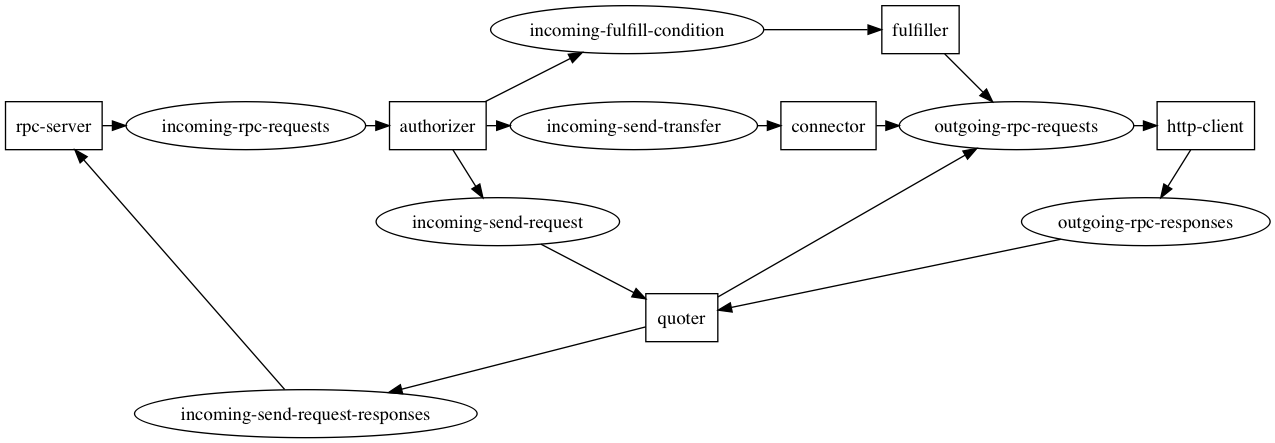
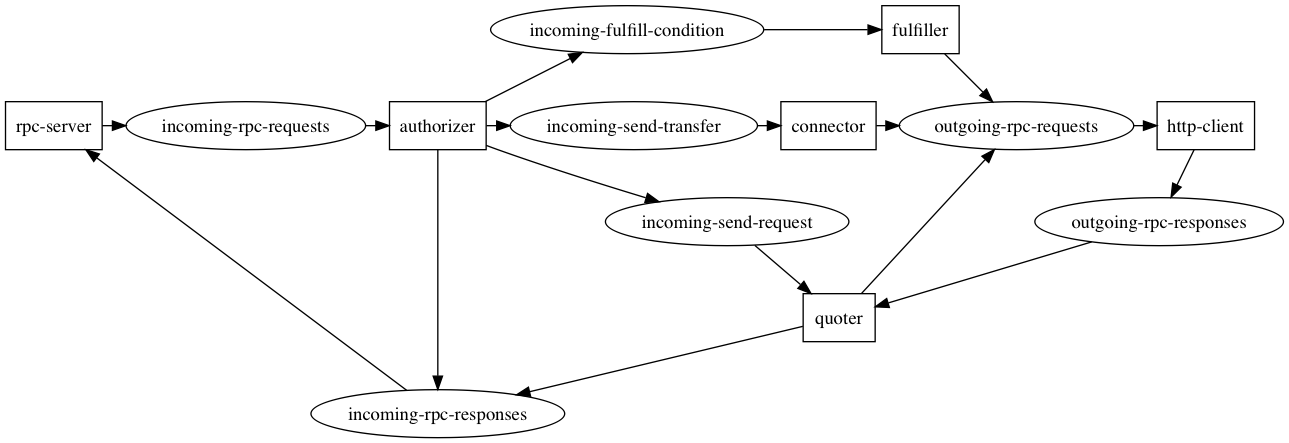
feat: add get_info method to authorizer

diff --git a/src/authorizer.js b/src/authorizer.js
@@ -1,9 +1,7 @@
 const kafka = require('kafka-node')
 const util = require('./util')
 const client = new kafka.Client('localhost:2181')
-const producer = new kafka.HighLevelProducer(client, {
-  partitionerType: 3 // keyed partitioner
-})
+const producer = new kafka.HighLevelProducer(client)
 const produce = util.promisify(producer.send.bind(producer))
 const consumer = new kafka.ConsumerGroup({
   host: 'localhost:2181',
@@ -24,29 +22,53 @@ consumer.on('message', async (message) => {
     switch (method) {
       case 'send_transfer':
         const sendTransferId = body && body[0] && body[0].id
-        await produce([{
-          topic: 'incoming-send-transfer',
-          messages: Buffer.from(JSON.stringify({ id, body, prefix, method })),
-          timestamp: Date.now(),
-          key: sendTransferId
-        }])
+        await Promise.all([
+          produce([{
+            topic: 'incoming-send-transfer',
+            messages: Buffer.from(JSON.stringify({ id, body, prefix, method })),
+            timestamp: Date.now()
+          }]),
+          produce([{
+            topic: 'incoming-rpc-responses',
+            messages: Buffer.from(JSON.stringify({ id, body: true })),
+            timestamp: Date.now()
+          }])
+        ])
         break
       case 'fulfill_condition':
         const fulfillTransferId = body && body[0]
-        await produce([{
-          topic: 'incoming-fulfill-condition',
-          messages: Buffer.from(JSON.stringify({ id, body, prefix, method })),
-          timestamp: Date.now(),
-          key: fulfillTransferId
-        }])
+        await Promise.all([
+          produce([{
+            topic: 'incoming-fulfill-condition',
+            messages: Buffer.from(JSON.stringify({ id, body, prefix, method })),
+            timestamp: Date.now()
+          }]),
+          produce([{
+            topic: 'incoming-rpc-responses',
+            messages: Buffer.from(JSON.stringify({ id, body: true })),
+            timestamp: Date.now()
+          }])
+        ])
         break
       case 'send_request':
         await produce([{
           topic: 'incoming-send-request',
           messages: Buffer.from(JSON.stringify({ id, body, prefix, method })),
-          timestamp: Date.now(),
-          key: id
+          timestamp: Date.now()
           // TODO is there an intelligent way to partiion requests?
+        }])
+        break
+      case 'get_info':
+        const info = {
+          currencyCode: 'USD',
+          currencyScale: 9,
+          prefix: prefix,
+          connectors: [ prefix + 'server' ]
+        }
+        await produce([{
+          topic: 'incoming-rpc-responses',
+          messages: Buffer.from(JSON.stringify({ id, body: info })),
+          timestamp: Date.now()
         }])
         break
 

diff --git a/src/rpc-server.js b/src/rpc-server.js
@@ -15,7 +15,7 @@ const producer = new kafka.HighLevelProducer(client)
 const consumer = new kafka.ConsumerGroup({
   host: 'localhost:2181',
   groupId: 'rpcServer'
-}, 'incoming-send-request-responses')
+}, 'incoming-rpc-responses')
 client.once('ready', () => console.log('listening for incoming-send-request-responses'))
 client.on('error', error => console.error(error))
 consumer.on('error', error => console.error(error))
@@ -24,7 +24,7 @@ producer.on('error', error => console.error(error))
 const responder = new EventEmitter()
 consumer.on('message', (message) => {
   const data = JSON.parse(message.value)
-  console.log('process incoming-send-request-responses', data.id)
+  console.log('process incoming-rpc-responses', data.id)
 
   responder.emit(data.id, data)
 })
@@ -49,18 +49,20 @@ router.post('/rpc', async (ctx) => {
     }])
   } catch (err) {
     console.error('error producing to incoming-rpc-requests', id, err)
-  }
-
-  if (method === 'send_request') {
-    const response = await new Promise((resolve) => {
-      responder.on(id, data => resolve(data))
-    })
-
-    ctx.body = response.body
+    ctx.status = 500
     return
   }
 
-  ctx.body = true
+  const response = await new Promise((resolve) => {
+    responder.on(id, data => resolve(data))
+  })
+  if (response.error) {
+    ctx.status = response.error.status
+    ctx.body = response.error.body
+    return
+  }
+
+  ctx.body = response.body
 })
 
 const port = process.env.PORT || 8080

diff --git a/src/http-client.js b/src/http-client.js
@@ -23,21 +23,27 @@ outgoingRpcRequests.on('message', async (message) => {
 
   const { uri, token } = getPeerRpcInfo(prefix)
 
-  let response
+  let responseBody
+  let error
   try {
-    response = await agent
+    const response = await agent
       .post(uri)
       .query({ method, prefix })
       .set('Authorization', 'Bearer ' + token)
       .send(body)
+    responseBody = response.body
   } catch (err) {
     console.error(`error sending rpc request ${id} to ${prefix} (${uri})`, err)
+    error = {
+      status: 502,
+      responseBody: 'error sending rpc request'
+    }
   }
 
   try {
     await produce([{
       topic: 'outgoing-rpc-responses',
-      messages: Buffer.from(JSON.stringify({ id, method, prefix, body: response.body })),
+      messages: Buffer.from(JSON.stringify({ id, method, prefix, body: responseBody, error })),
       timestamp: Date.now()
     }])
   } catch (err) {

diff --git a/src/response-handler.js b/src/response-handler.js
@@ -17,7 +17,7 @@ consumer.on('message', async (message) => {
 
   try {
     await produce([{
-      topic: 'incoming-send-request-responses',
+      topic: 'incoming-rpc-responses',
       messages: Buffer.from(message.value, 'binary'),
       timestamp: Date.now()
     }])
